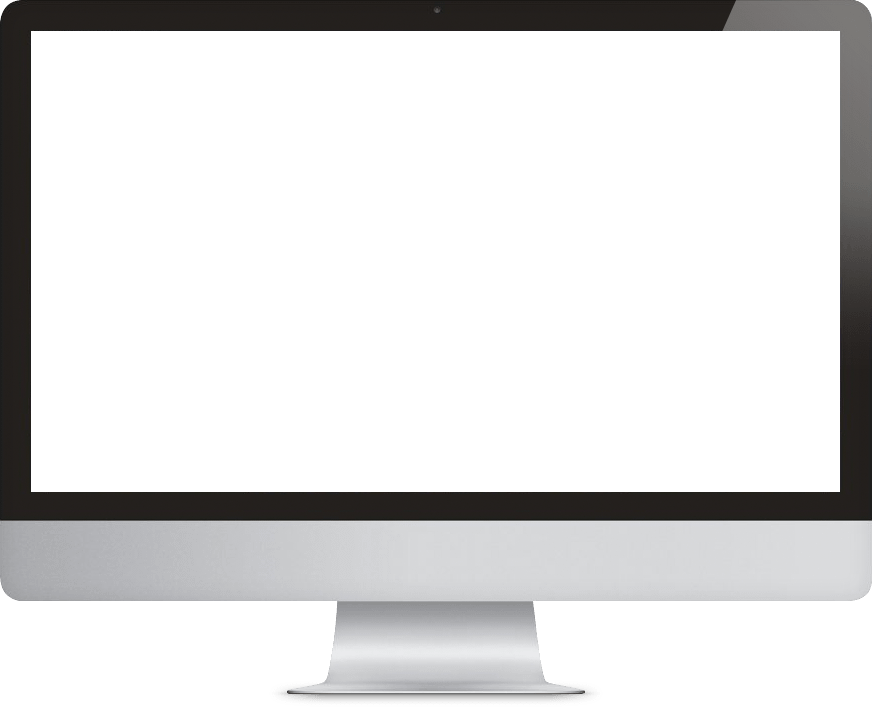
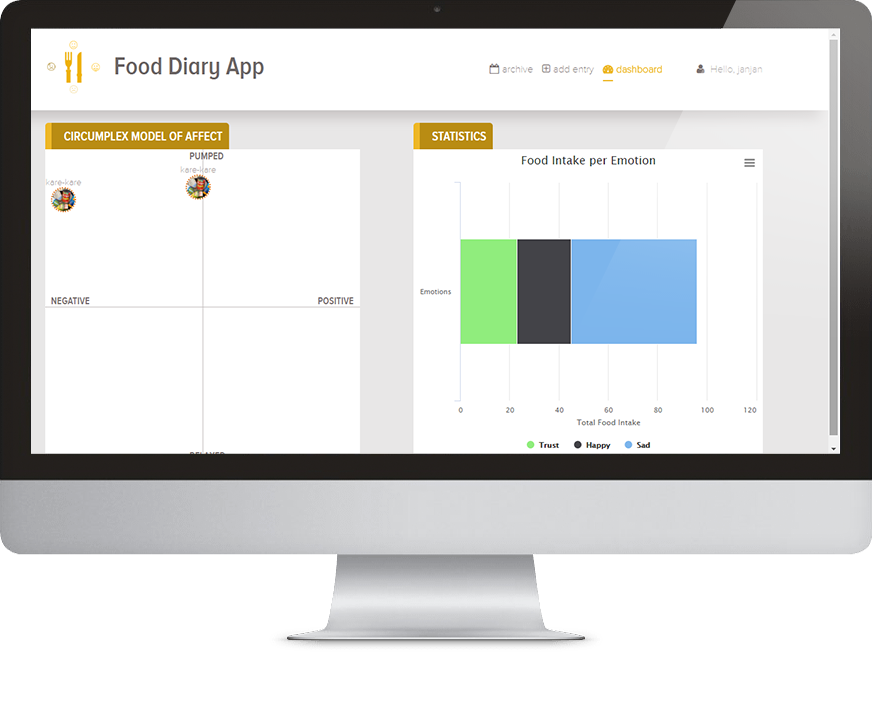
Modified dashboard

diff --git a/style.css b/style.css
@@ -227,7 +227,7 @@ input, select {
     margin-left:15px;    
     position: relative;
     top:-33px;
-    font-size:250%;
+    font-size:160%;
     color:#6d6767;
     font-family: altCondensedSemibold;
 }
@@ -273,6 +273,121 @@ input, select {
     color:#edb727;
     font-weight: bold;
 }
+.circumplex-model{
+    width:100%;  
+    height:500px;
+    background:#ffffff;
+    position: relative;
+    overflow: hidden;
+}
+/* VERTICAL LINE */
+.circumplex-model:before{
+    position: absolute;
+    content:"";
+    display: inline;
+    left: 50%;
+    top:0%;
+    height:100%;
+    background:#c6c0c0;
+    width:1px;
+}
+/*HORIZONTAL LINE*/
+.circumplex-model:after{
+    position: absolute;
+    content:"";
+    display: inline;
+    left: 0%;
+    top:50%;
+    width: 100%;
+    background:#c6c0c0;
+    height:1px;
+}
+.label{
+    position: absolute;
+    text-transform: uppercase;
+    font-size:100%;
+    color:#7b7272;
+    font-weight: bold;
+    font-family: altCondensedSemibold;
+}
+.top{
+    left:44%;
+}
+.right{
+    right:0%;
+    top:46%;
+}
+.left{
+    left:0%;
+    top:46%;
+}
+.bottom{
+    bottom:0%;
+    left:44%;
+}
+#visualization{
+    margin-top:20px;
+}
+.circumplexTitle,.statTitle,.recentEntriesHeader{
+    text-transform: uppercase;
+    background:#b98c13;
+    color:#ffffff;
+    font-family: altCondensedSemibold;
+    font-size: 125%;
+    display: inline-block;
+    padding:10px 10px 10px 20px;
+    border-left:10px solid #edb727;
+    border-top-right-radius: 5px;
+    border-top-left-radius: 5px;
+}
+#statChart{
+    height: 500px;
+}
+.circumplexFood{
+    position: absolute;
+    text-align: center;
+}
+.circumplexFoodName{
+    font-size: 87.5%;
+    color:#a79797;
+    font-family: novaThin;
+}
+.circumplesFoodImg{
+    max-width: 40px;
+    border-radius: 50%;
+    border:2px dotted #e16c0e;
+}
+#recent-entries{
+    margin-top:50px;
+    margin-bottom: 20px;
+}
+.recentEntriesImg{
+    width:100%;
+    padding:5px;
+    background:#fff;
+    margin-bottom: 10px;
+}
+.recentEntriesDesc{
+    padding:5px;
+    background:#fff;
+}
+.recentFoodName{
+    font-size:100%;
+    color:#514f4b;
+    font-family: novaThin;
+    padding-bottom: 5px;
+    border-bottom: 1px solid #abaaa7;
+    margin-bottom: 5px;
+    font-weight: bold;
+    text-transform: uppercase;
+}
+.recentEntriesDate{
+    font-size: 100%;
+    color:#99958b; 
+    font-family: novaThin;
+}
+
+
 @media screen and (max-width:993px){    
     #myCarousel{
         display: none;

diff --git a/dashboard.php b/dashboard.php
@@ -3,6 +3,8 @@
 <head>
 	<title>Dashboard</title>
 	<?php include ('include/links.php'); ?>
+	<script src="https://code.highcharts.com/highcharts.js"></script>
+	<script src="https://code.highcharts.com/modules/exporting.js"></script>
 </head>
 <body class="mainPage">
 	<header>
@@ -25,5 +27,146 @@
 			</div>
 		</div>
 	</header>
+	<section id="visualization">
+		<div class="container">
+			<div class="row">
+				<div class="col-md-6">
+					<div class="circumplex-header">
+						<h3 class="circumplexTitle">Circumplex Model of Affect</h3>
+					</div>
+					<div class="circumplex-body">		
+						<div class="circumplex-model" id="circumplex-model">	
+							<div class="label top">Pumped</div>
+							<div class="label left">Negative</div>
+							<div class="label right">Positive</div>
+							<div class="label bottom">Relaxed</div>
+							<div class="circumplexFood" id="circumplexFood1" style="left:43%;top:5%">
+								<h5 class="circumplexFoodName">kare-kare</h5>
+								<img src="img/food-sample.png" class="circumplesFoodImg" />
+							</div>
+							<div class="circumplexFood" id="circumplexFood2" style="left:0.2%;top:9%">
+								<h5 class="circumplexFoodName">kare-kare</h5>
+								<img src="img/food-sample.png" class="circumplesFoodImg" />
+							</div>
+						</div>		
+					</div>
+				</div>
+				<div class="col-md-6">
+					<div class="stat-header">
+						<h3 class="statTitle">Statistics</h3>
+					</div>
+					<div id="statChart">
+					</div>
+				</div>
+			</div>
+		</div>
+	</section>
+	<section id="recent-entries">
+		<div class="container">
+			<div class="row">
+				<div class="col-md-12">
+					<div class="recentEntriesHeading">
+							<h3 class="recentEntriesHeader">Recent Entries</h3>
+					</div>
+				</div>
+			</div>
+			<div class="row recent-container">
+				<div class="col-md-2 col-sm-4">
+					<img class="recentEntriesImg" src="img/bukayo.jpg" />
+					<div class="recentEntriesDesc">
+						<p class="recentFoodName">bukayo</p>
+						<p class="recentEntriesDate">10/19/12</p>
+					</div>
+				</div>
+				<div class="col-md-2 col-sm-4">
+					<img class="recentEntriesImg" src="img/champorado.jpg" />
+					<div class="recentEntriesDesc">
+						<p class="recentFoodName">champorado</p>
+						<p class="recentEntriesDate">10/19/12</p>
+					</div>
+				</div>
+				<div class="col-md-2 col-sm-4">
+					<img class="recentEntriesImg" src="img/dinuguan.jpg" />
+					<div class="recentEntriesDesc">
+						<p class="recentFoodName">dinuguan</p>
+						<p class="recentEntriesDate">10/18/12</p>
+					</div>
+				</div>
+				<div class="col-md-2 col-sm-4">
+					<img class="recentEntriesImg" src="img/halo-halo.jpg" />
+					<div class="recentEntriesDesc">
+						<p class="recentFoodName">halo-halo</p>
+						<p class="recentEntriesDate">10/16/12</p>
+					</div>
+				</div>
+				<div class="col-md-2 col-sm-4">
+					<img class="recentEntriesImg" src="img/kalderata.jpg" />
+					<div class="recentEntriesDesc">
+						<p class="recentFoodName">kaldereta</p>
+						<p class="recentEntriesDate">10/15/12</p>
+					</div>
+				</div>
+				<div class="col-md-2 col-sm-4">
+					<img class="recentEntriesImg" src="img/kare-kare.jpg" />
+					<div class="recentEntriesDesc">
+						<p class="recentFoodName">kare-kare</p>
+						<p class="recentEntriesDate">10/9/12</p>
+					</div>
+				</div>
+			</div>
+		</disv>
+	</section>
+<script>	
+Highcharts.chart('statChart', {
+    chart: {
+        type: 'bar'
+    },
+    title: {
+        text: 'Food Intake per Emotion'
+    },
+    xAxis: {
+        categories: ['Emotions']
+    },
+    yAxis: {
+        min: 0,
+        title: {
+            text: 'Total Food Intake'
+        }
+    },
+    legend: {
+        reversed: true
+    },
+    plotOptions: {
+        series: {
+            stacking: 'normal'
+        }
+    },
+    series: [{
+        name: 'Sad',
+        data: [51]
+    }, {
+        name: 'Happy',
+        data: [22]
+    }, {
+        name: 'Trust',
+        data: [23]
+    }, {
+        name: 'Depressed',
+        data: [10]
+    }, {
+        name: 'Enjoy',
+        data: [9]
+    }, {
+        name: 'Arouse',
+        data: [15]
+    }, {
+        name: 'Stressed',
+        data: [50]
+    }, {
+        name: 'Loved',
+        data: [15]
+    }]
+});
+</script>
 </body>
 </html>
